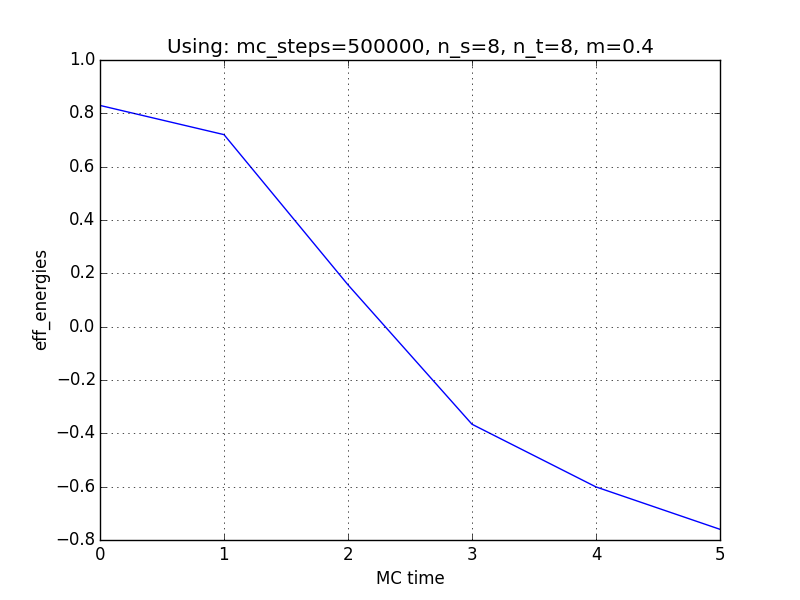
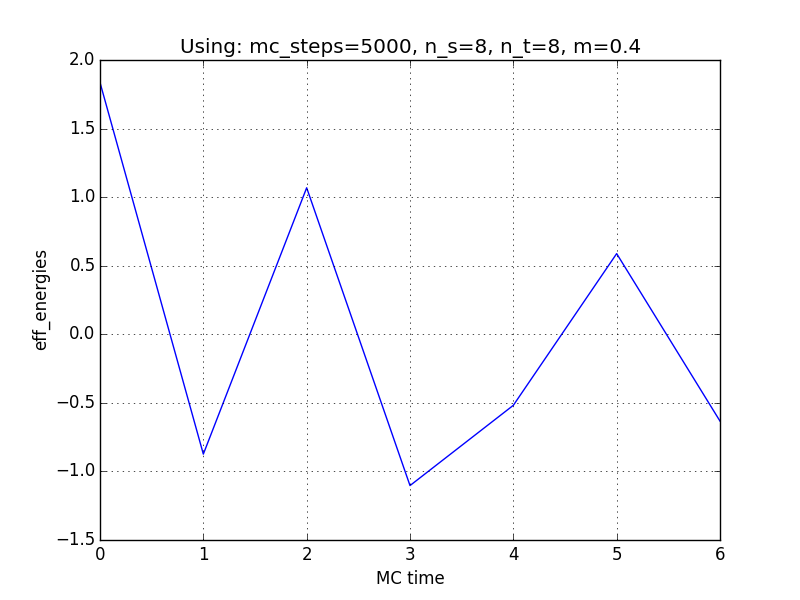
Odd-even updates within Metropolis

diff --git a/exc_3/simulation.py b/exc_3/simulation.py
@@ -49,18 +49,18 @@ class Simulation:
 
         phi_val = phi[x,t]
         
-        delta_phi = (phi_val - phi_val_prime)
+        delta_phi = (phi_val_prime - phi_val)
 
-        term1 = ( pow(phi_val,2)-pow(phi_val_prime,2) ) * (pow(self.m,2)/2 + 2)
+        term1 = ( pow(phi_val_prime,2)-pow(phi_val,2) ) * (pow(self.m,2) + 4.0)
         term2 = phi[(x+1)%self.n_s,t]
         term3 = phi[x,(t+1)%self.n_t]
         term4 = phi[(self.n_s+x-1)%self.n_s,t]
         term5 = phi[x,(self.n_t+t-1)%self.n_t]
 
-        delta_S_E = term1 - delta_phi*(term2+term3+term4+term5)
+        delta_S_E = term1 - 2*delta_phi*(term2+term3+term4+term5)
 
         # return S_E' - S_E (new - old)
-        return -delta_S_E
+        return -0.5*delta_S_E
 
 
     def compute_action(self, phi):
@@ -100,22 +100,55 @@ class Simulation:
 
         print("...done.")
 
+        # overall counter
+        w = 0
+
         progr_prev = 0
-        for i in range(mc_steps-burn_in):
-            t = i%self.n_s
-            x = (i/self.n_s)%self.n_t
-            self.run_one_step(x,t)
+        while w<(mc_steps-burn_in):
 
-            # print progress
-            progr = int((float(i) / float(mc_steps-burn_in))*100.0)
-            if progr>0 and progr!=progr_prev and progr%2==0:
-                print(str(progr)+"% ..."),
-                sys.stdout.flush()
-                progr_prev = progr
+            # even
+            for i in range(0,self.n_t*self.n_s,2):
 
-            # save configs
-            if i%skip_length==0:
-                self.phi.append( np.copy(self.phi_buff) )
+                if w>=(mc_steps-burn_in): break
+
+                t = i%self.n_t
+                x = (i/self.n_t)%self.n_s
+                self.run_one_step(x,t)
+
+                # print progress
+                progr = int((float(w) / float(mc_steps-burn_in))*100.0)
+                if progr>0 and progr!=progr_prev and progr%2==0:
+                    print(str(progr)+"% ..."),
+                    sys.stdout.flush()
+                    progr_prev = progr
+
+                # save configs
+                if w%skip_length==0:
+                    self.phi.append( np.copy(self.phi_buff) )
+
+                w+=1
+
+            # odd
+            for i in range(1,self.n_t*self.n_s,2):
+
+                if w>=(mc_steps-burn_in): break
+
+                t = i%self.n_t
+                x = (i/self.n_t)%self.n_s
+                self.run_one_step(x,t)
+
+                # print progress
+                progr = int((float(w) / float(mc_steps-burn_in))*100.0)
+                if progr>0 and progr!=progr_prev and progr%2==0:
+                    print(str(progr)+"% ..."),
+                    sys.stdout.flush()
+                    progr_prev = progr
+
+                # save configs
+                if w%skip_length==0:
+                    self.phi.append( np.copy(self.phi_buff) )
+
+                w+=1
 
         self.phi = np.array(self.phi)
 
@@ -150,6 +183,8 @@ class Simulation:
                 self.corrs[len(self.corrs)-1].append( np.vdot( self.phi_momentum[:,k,0], self.phi_momentum[:,k,j] ) )
 
         self.corrs = np.array(self.corrs)
+        print("")
+        print(self.corrs)
 
         # TODO: not necessary?
         self.corrs = np.absolute(self.corrs)
@@ -159,7 +194,7 @@ class Simulation:
 
         for k in range(self.corrs.shape[0]):
             self.eff_energies.append( [] )
-            for j in range(1,self.corrs.shape[1]-1):
+            for j in range(self.corrs.shape[1]-1):
 
                 if eff_en_type=="exp":
                     self.eff_energies[len(self.eff_energies)-1].append( log( self.corrs[k,j]/self.corrs[k,j+1] ) )
@@ -174,7 +209,7 @@ class Simulation:
     def plot(self, varname, filename, run_setup):
 
         if varname=="corrs":
-            var_to_plot = self.corrs[1,:]
+            var_to_plot = self.corrs[1,1:]
         elif varname=="eff_energies":
             var_to_plot = self.eff_energies[1,:]
         else:

diff --git a/exc_3/main.py b/exc_3/main.py
@@ -11,7 +11,7 @@ sim = Simulation(sim_params)
 
 run_params = dict()
 run_params['burn_in'] = 3000
-run_params['mc_steps'] = 100003000
+run_params['mc_steps'] = 1003000
 run_params['skip_length'] = 200
 
 # Generate Markov Chain configurations by using Metropolis
